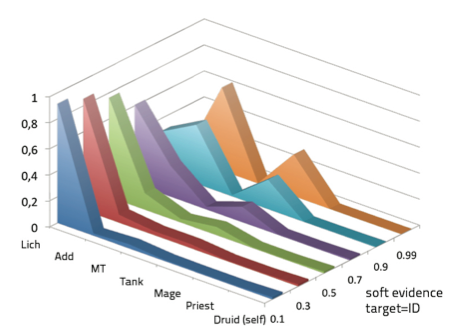
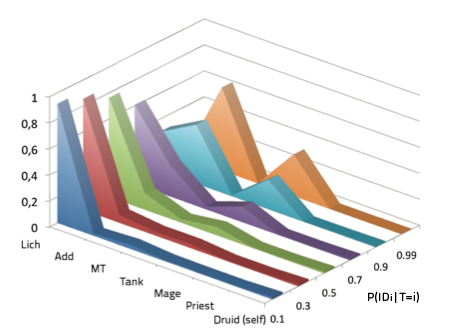
chapter 3 RC0

Changed region(s): [[0.7794, 0.8408, 0.9593, 0.961]]

diff --git a/chapters/theory.tex b/chapters/theory.tex
@@ -250,32 +250,32 @@ which we will change to watch their effects.
 %``soft evidence that a selected target is foe'' and the ``soft evidence that a selected target will soon die ($ID=true$)'' that will consequently modify the probability tables of $P(A_i)$ and $P(ID_i)$ respectively. 
 %probability that a selected target is a foe $\PP(A_i|T=i)$ and the probability that a selected target will soon die will $\PP(ID_i=``soon''|T=i)$
 In the experiments, we will try different values for the ``soft evidence that a selected target will soon die'', that is $\PP(ID_i | T=i)$, and see how the behavior of the agent changes. 
-We set the probability to target the same target as before to 0.4 and the previous target to ``Lich'' so that the prior probability for all other 6 targets is 0.1 (4 times more chances to target the Lich than any other character). 
-We set the probability to target an enemy (instead of an ally) $P(A_i=false|T=i)$ to 0.6. This means that our robotic druid is mainly a damage dealer and just a backup healer. For the ``target selection'' model, we can see on Fig.~\ref{fig:wow_target} (left) that the evolution from selecting the main foe ``Lich'' to selecting the ally ``Tank'' is driven by the increase of 
-``soft evidence that a selected target will soon die'' and our robot eventually moves on targeting his(its) ``Tank'' ally (to heal him). We can see on Fig.~\ref{fig:wow_target} (right) that, at some point, the robotic Druid prefers to kill the dying ``add'' (additional foe) to save his ally Tank instead of healing him. Note that there is no variable showing the relation between ``Add'' and ``Tank'' (the first is attacking the second, who is taking damages from the first), but this could be taken into account in a more complete model.
+We set the probability to target the same target as before ($P(T^t=i|T^{t-1}=i)$) to 0.4 and the previous target to ``Lich'' so that the prior probability for all other 6 targets is 0.1 (4 times more chances to target the Lich than any other character). 
+We set the probability to target an enemy (instead of an ally) $P(A_i=false|T=i)$ to 0.6. This means that our robotic druid is mainly a damage dealer and just a backup healer. For the ``target selection'' sub-model, we can see on Fig.~\ref{fig:wow_target} (left) that the evolution from selecting the main foe ``Lich'' to selecting the ally ``Tank'' is driven by the increase of 
+``soft evidence that a selected target will soon die'' and our robot eventually moves on targeting their ``Tank'' ally (to heal them). We can see on Fig.~\ref{fig:wow_target} (right) that, at some point, the robotic Druid prefers to kill the dying ``add'' (additional foe) to save their ally Tank instead of healing them. Note that there is no variable showing the relation between ``Add'' and ``Tank'' (the first is attacking the second, who is taking damages from the first), but this could be taken into account in a more complete model.
 
 \begin{figure}[h!]
 \begin{center}
 \includegraphics[width=7.8cm]{images/wow_distrib_target1.png} \includegraphics[width=7.8cm]{images/wow_distrib_target2.png}
-\caption{Left: probabilities of targets depending on the soft evidence that a target is dying with setup A. Right: same, with setup B. TODO }
+\caption{Left: probabilities of targets depending on the soft evidence that a target is dying ($\PP(ID_i=true | T=i)$) with setup A. Right: same, with setup B.}
 \label{fig:wow_target}
 \end{center}
 \end{figure}
 
-For the ``skill selection'' model, we can see on Fig.~\ref{fig:wow_skill} the influence of $ID_i$ on Skill which is coherent with the Target distribution: either, in setup A (left), we evolve with the increase of $P(ID_i=true|Target=i)$ to choose to heal our ally or, in setup B (right), to deal direct damage (and hopefully, kill) the foe attacking him. As you can see here, when we have the highest probability to attack the main enemy (``Lich'', when $P(ID_i=true|Target=i)$ is low), who is a $C=tank$, we get a high probability for the Skill $debuff\_armor$. We only cast this skill if the debuff is not already present, so perhaps that we will cast $small\_dd$ instead. To conclude this example, Fig.~\ref{fig:wow_target_skill} shows the distribution on $P(T,S|all\_status\_variables)$ with setup A and the probability to target the previous target (set to ``Lich'' here) only $\approx 2$ times greater than any other character (so that we focus less on the same character), soft evidences $P(ID_i=true|Target=i)=0.9$ and $P(A_i=false|Target=i)=0.6$. In a greedy way, if the first couple $(T,S)$ is already done or not available, we take the second.
+For the ``skill selection'' model, we can see on Fig.~\ref{fig:wow_skill} the influence of $ID_i$ on Skill which is coherent with the Target distribution: either, in setup A (left), we evolve with the increase of $P(ID_i=true|Target=i)$ to choose to heal our ally or, in setup B (right), to deal direct damage (and hopefully, kill) the foe attacking him. As you can see here, when we have the highest probability to attack the main enemy (``Lich'', when $P(ID_i=true|Target=i)$ is low), who is a $C=tank$, we get a high probability for the Skill \textit{debuff\_armor}. We only cast this skill if the debuff is not already present, so perhaps that we will cast \textit{small\_dd} instead. To conclude this example, Fig.~\ref{fig:wow_target_skill} shows the distribution on $P(T,S|all\_status\_variables)$ with setup A and the probability to target the previous target (set to ``Lich'' here) only $\approx 2$ times greater than any other character (so that we focus less on the same character), soft evidences $P(ID_i=true|Target=i)=0.9$ and $P(A_i=false|Target=i)=0.6$. In a greedy way, if the first couple $(T,S)$ is already done or not available, we take the second.
 
 \begin{figure}[h!]
 \begin{center}
-\includegraphics[width=7cm]{images/wow_distrib_skill1.png} \includegraphics[width=7cm]{images/wow_distrib_skill2.png}
-\caption{Left: Probabilities of skills depending on the soft evidence that a target is dying with setup A. Right: same, with setup B. TODO }
+\includegraphics[width=7.8cm]{images/wow_distrib_skill1.png} \includegraphics[width=7.8cm]{images/wow_distrib_skill2.png}
+\caption{Left: Probabilities of skills depending on the soft evidence that a target is dying ($\PP(ID_i=true|T=i)$) with setup A. Right: same, with setup B.}
 \label{fig:wow_skill}
 \end{center}
 \end{figure}
 
 \begin{figure}[h!]
 \begin{center}
-\includegraphics[width=11cm]{images/wow_distrib_target_skill.png}
-\caption{Log-probabilities of Target and Skill with setup A, and $P(ID|Target)=0.9, P(A|Target)=0.6$ TODO}
+\includegraphics[width=12cm]{images/wow_distrib_target_skill.png}
+\caption{Log-probabilities of Target and Skill with setup A, and $P(ID_i=true|T=i)=0.9, P(A_i=true|T=i)=0.6$. We can see that if the role of our character is more of a healer, it is most probable that it will heal an ally, even when they are not endangered (setup A).}
 \label{fig:wow_target_skill}
 \end{center}
 \end{figure}
